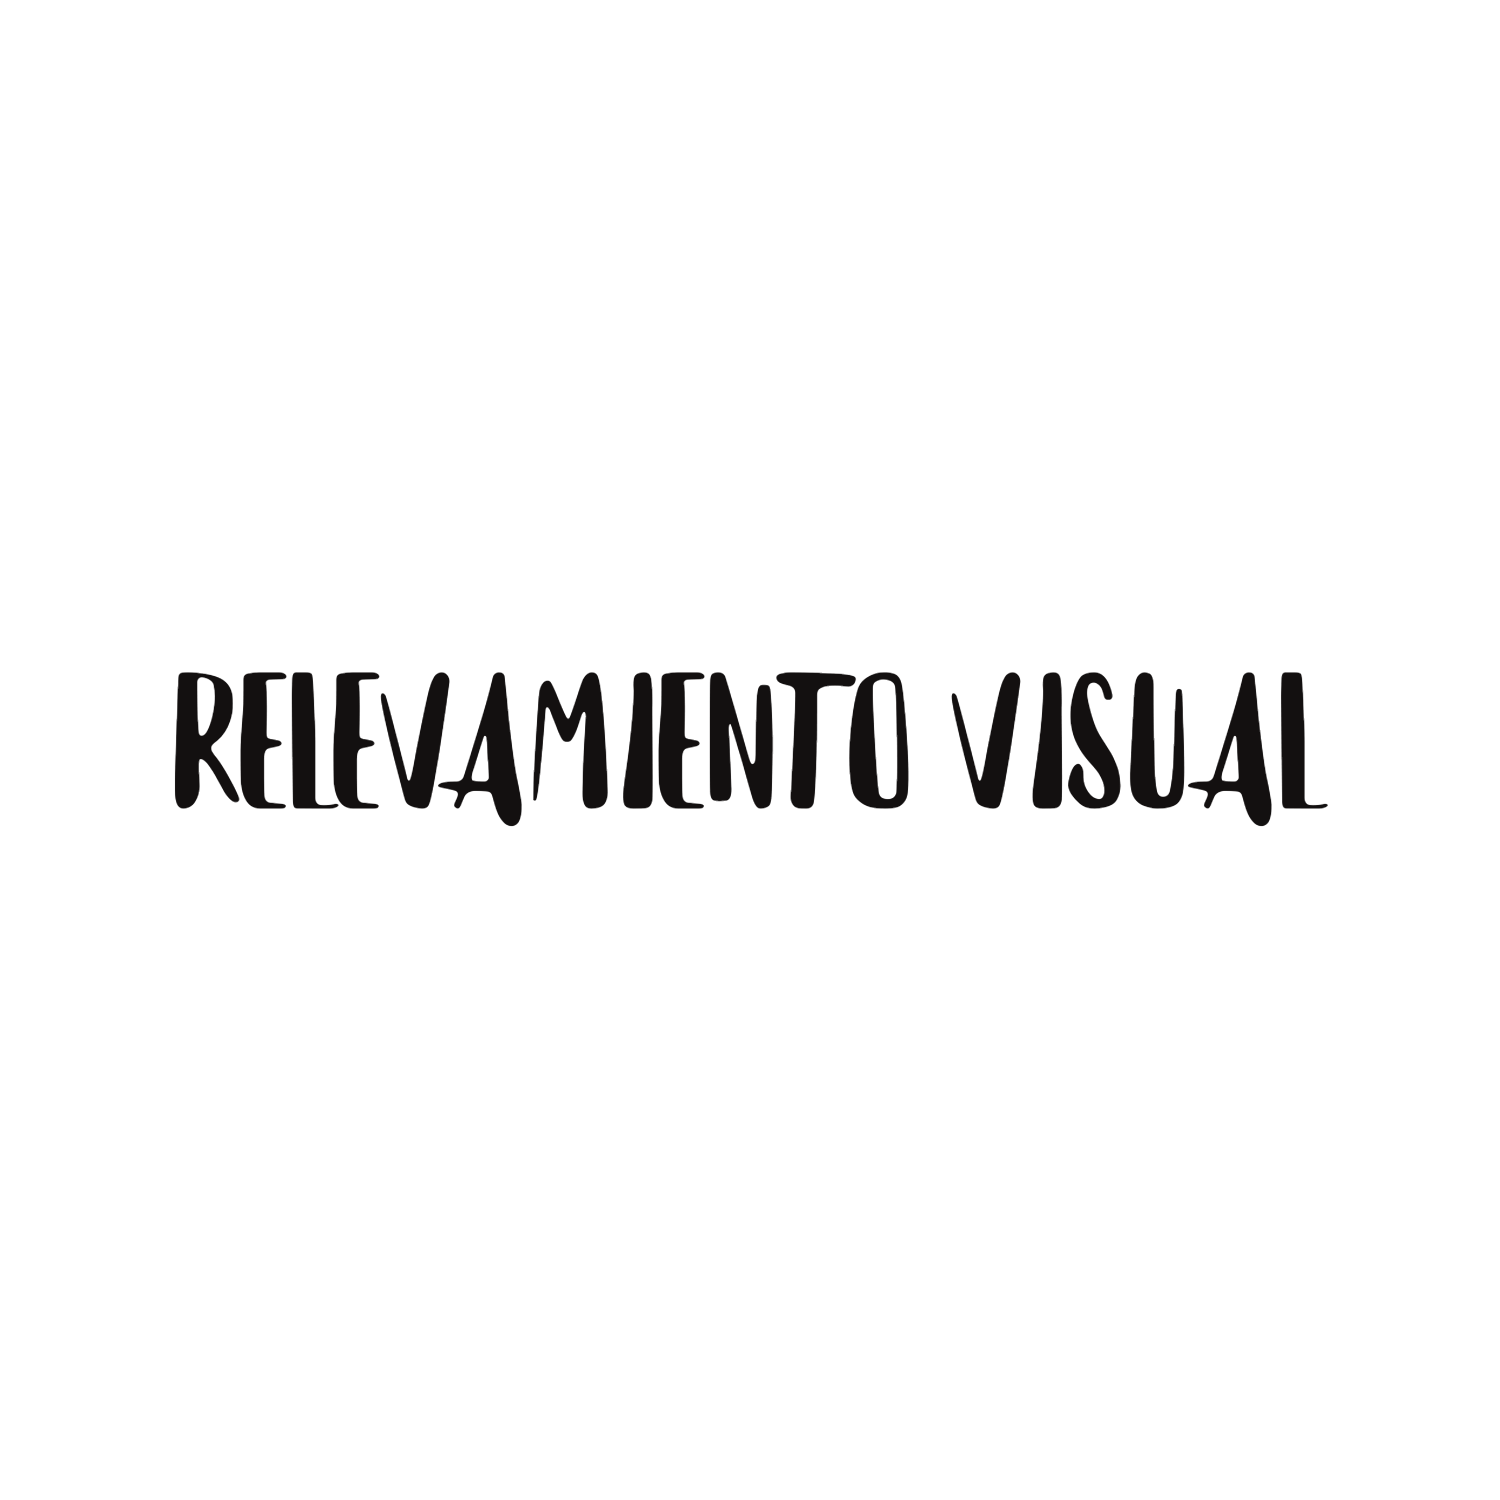
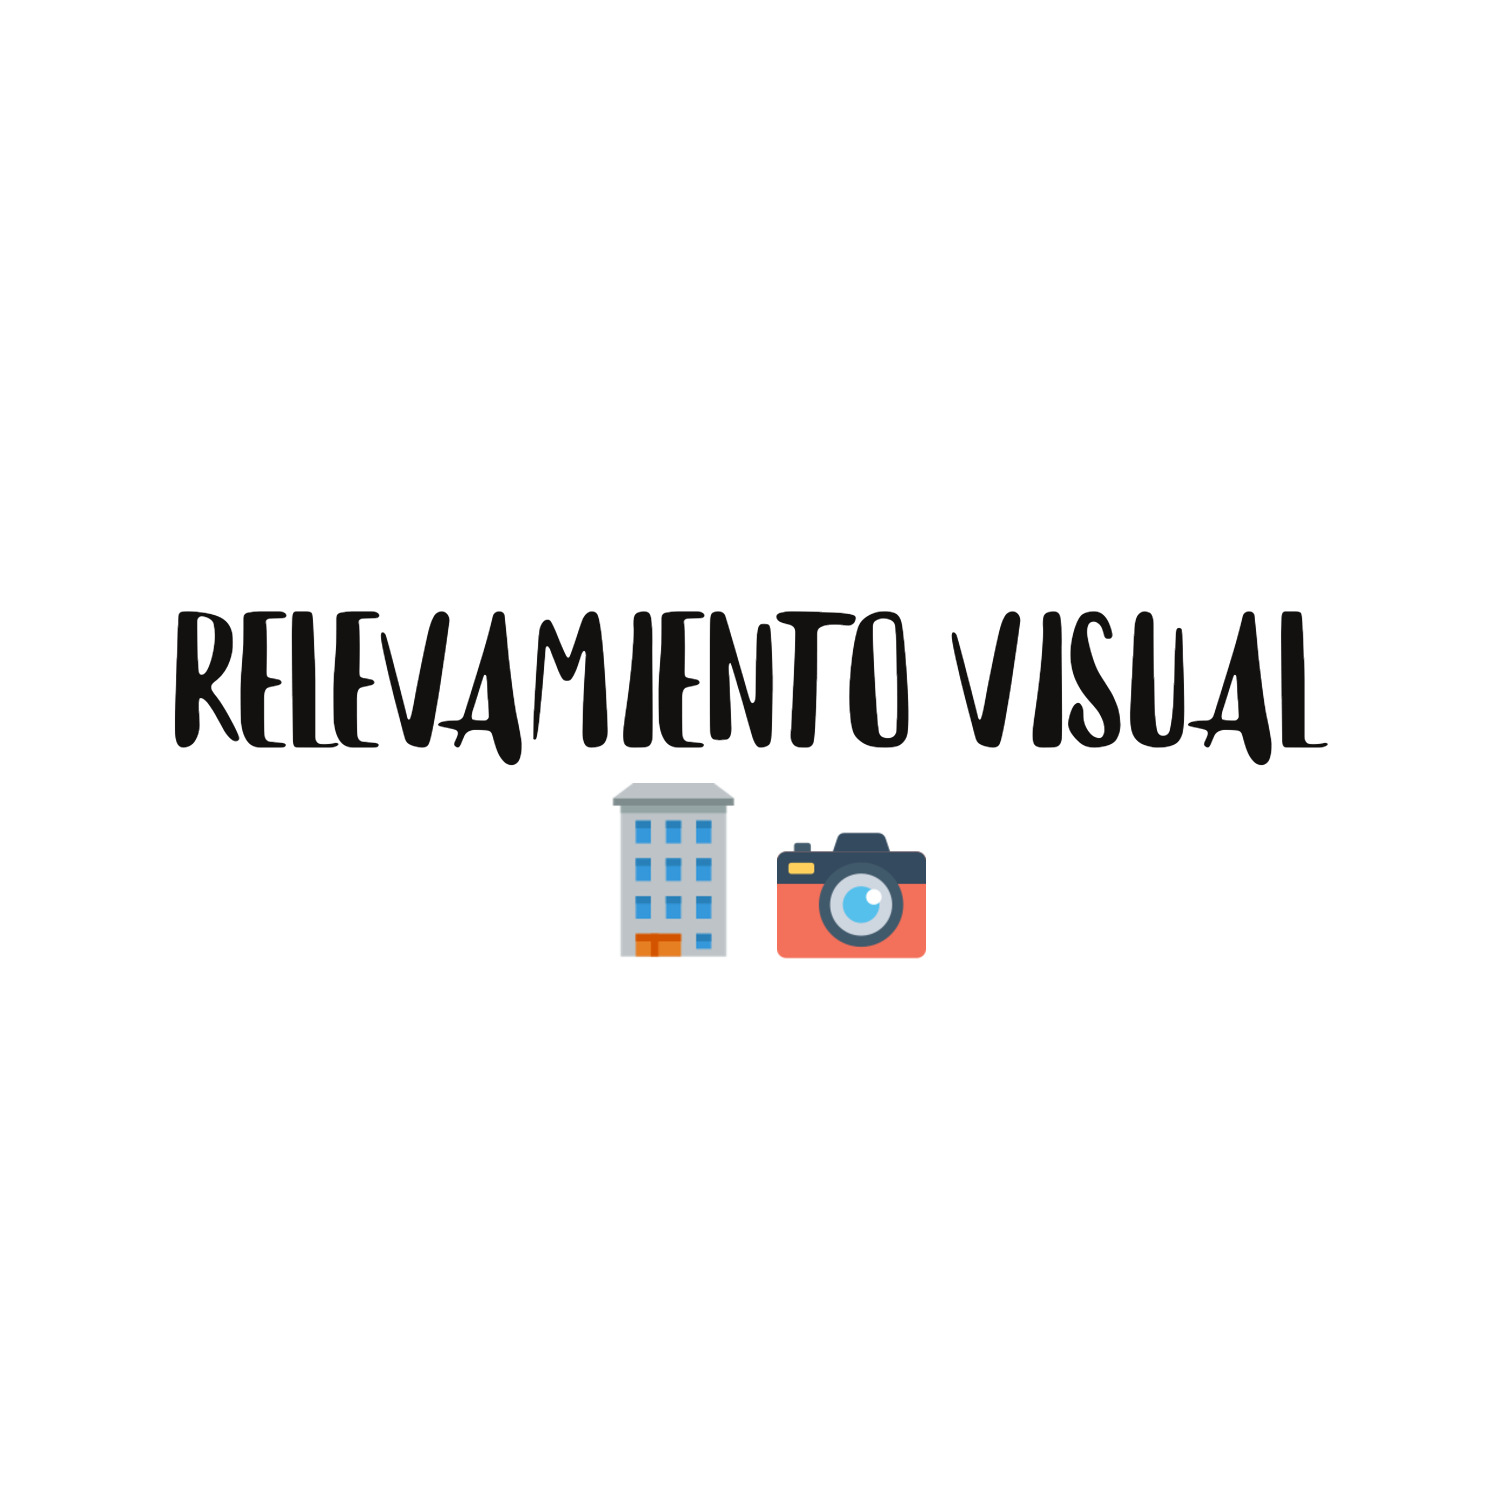
estilos del login

Changed region(s): [[0.092, 0.3987, 0.8893, 0.644]]

diff --git a/src/app/pages/login/login.page.html b/src/app/pages/login/login.page.html
@@ -9,11 +9,11 @@
   </ion-header>
 
   <div style="height: 20%; display: flex; align-items: center; justify-content: center;">
-    <img src="assets/nombre_app.png" width="100%" height="600" >
+    <img src="assets/nombre_app.png" width="100%" height="500" >
   </div>
 
 
-  <div style="height: 40%; display: flex; align-items: center; justify-content: center;">
+  <div style="height: 45%; display: flex; align-items: center; justify-content: center;">
 
     <ion-card class="card-contain">
       <ion-card-header>
@@ -57,7 +57,7 @@
     </ion-card>
   </div>
 
-  <div style="height: 30%; display: flex; align-items: center; justify-content: center;">
+  <div style="height: 25%; display: flex; align-items: center; justify-content: center;">
     <app-select [disabled]="botonAcceso" (userSelected)="userSelected($event)"></app-select>
   </div>
 

diff --git a/src/app/pages/login/login.page.scss b/src/app/pages/login/login.page.scss
@@ -3,7 +3,7 @@
 }
 
 ion-content{
-    --background: url(../../../assets/home.png);
+    --background: url(../../../assets/home2.png);
     background-size: cover !important;
     -webkit-background-size: cover !important;
 }
